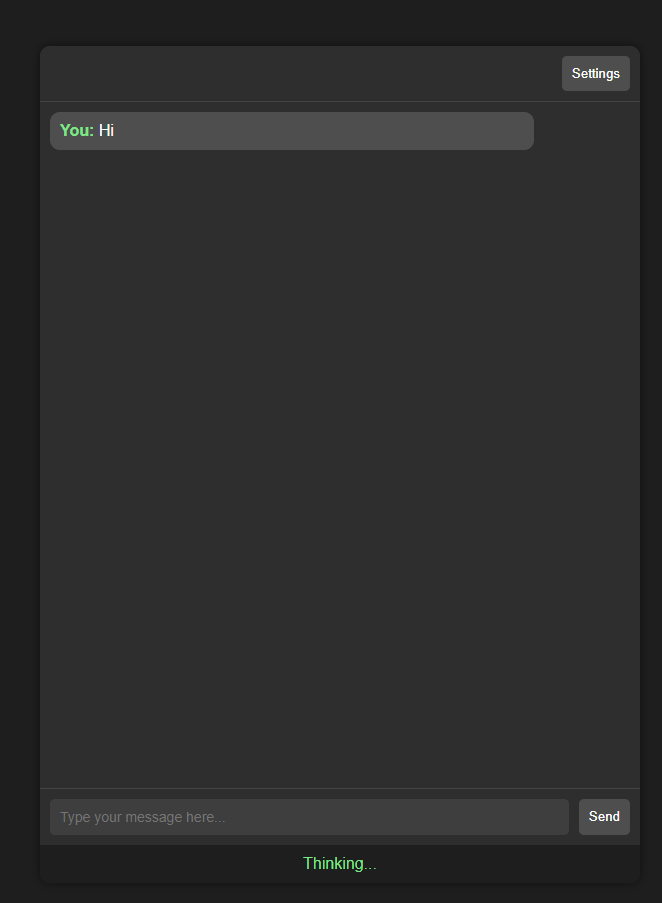
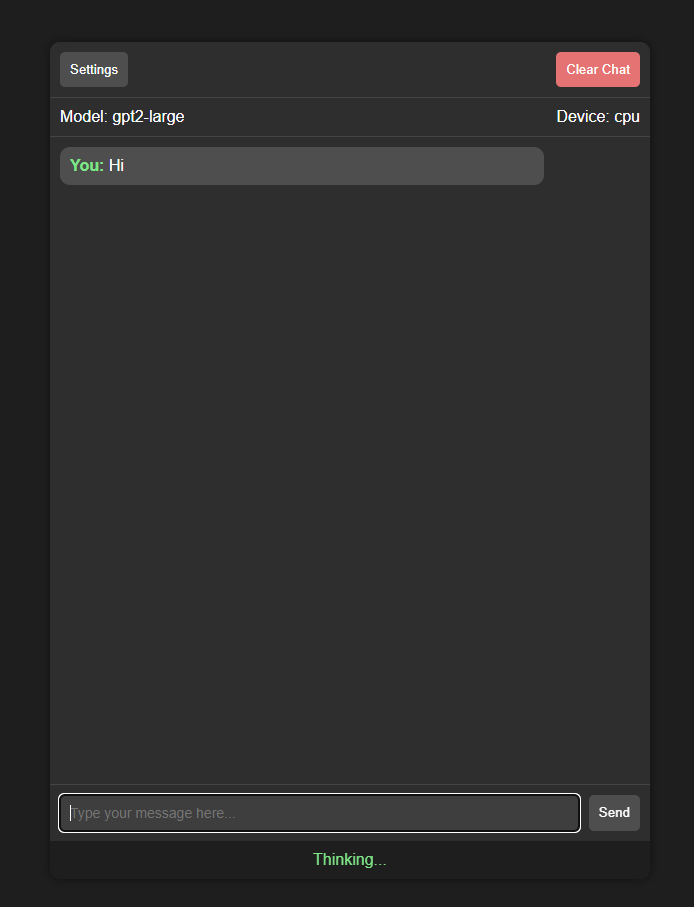
Changelogs for v1.1.0
Enhancements:

Added a section to display the currently selected model and device above the chat.
Implemented functionality to persist selected model and device settings across page reloads using local storage.
Added a "Clear Chat" button to allow users to quickly clear the chat history.
Bug Fixes:

Fixed minor styling adjustments for better visual consistency

Changed region(s): [[0.0604, 0.031, 0.9668, 0.2171], [0.0604, 0.8682, 0.9668, 0.9612]]

diff --git a/launcher/static/js/scripts.js b/launcher/static/js/scripts.js
@@ -1,4 +1,17 @@
 $(document).ready(function() {
+    // Load saved settings from local storage
+    const savedModel = localStorage.getItem('selectedModel');
+    const savedDevice = localStorage.getItem('selectedDevice');
+
+    if (savedModel) {
+        $('#model-selector').val(savedModel);
+        $('#selected-model').text(savedModel);
+    }
+    if (savedDevice) {
+        $('#device-selector').val(savedDevice);
+        $('#selected-device').text(savedDevice);
+    }
+
     // Load available devices
     $.get('/devices', function(data) {
         let deviceSelector = $('#device-selector');
@@ -21,6 +34,13 @@ $(document).ready(function() {
     $('#save-settings').click(function() {
         let modelName = $('#model-selector').val();
         let deviceId = $('#device-selector').val();
+
+        localStorage.setItem('selectedModel', modelName);
+        localStorage.setItem('selectedDevice', deviceId);
+
+        $('#selected-model').text(modelName);
+        $('#selected-device').text(deviceId);
+
         $.ajax({
             url: '/update_model',
             type: 'POST',
@@ -75,6 +95,11 @@ $(document).ready(function() {
                 }
             });
         }
+    });
+
+    // Clear chat history
+    $('#clear-chat').click(function() {
+        $('#chat-display').empty();
     });
 
     // Send message on enter key press

diff --git a/launcher/static/css/styles.css b/launcher/static/css/styles.css
@@ -24,7 +24,8 @@ body {
 .header {
     background-color: #2e2e2e;
     padding: 10px;
-    text-align: right;
+    display: flex;
+    justify-content: space-between;
 }
 
 .header button {
@@ -38,6 +39,16 @@ body {
 
 .header button:hover {
     background-color: #5e5e5e;
+}
+
+.info {
+    background-color: #2e2e2e;
+    padding: 10px;
+    color: #ffffff;
+    border-top: 1px solid #444;
+    display: flex;
+    justify-content: space-between;
+    align-items: center;
 }
 
 .chat {
@@ -88,6 +99,14 @@ body {
 
 #send-button:active {
     background-color: #3e3e3e;
+}
+
+#clear-chat {
+    background-color: #e57373;
+}
+
+#clear-chat:hover {
+    background-color: #f44336;
 }
 
 .loading-indicator {

diff --git a/launcher/templates/index.html b/launcher/templates/index.html
@@ -11,6 +11,11 @@
     <div class="container">
         <div class="header">
             <button id="open-settings">Settings</button>
+            <button id="clear-chat">Clear Chat</button>
+        </div>
+        <div class="info">
+            <div>Model: <span id="selected-model">Not Selected</span></div>
+            <div>Device: <span id="selected-device">Not Selected</span></div>
         </div>
         <div class="chat">
             <div id="chat-display" class="chat-display"></div>

diff --git a/README.md b/README.md
@@ -41,37 +41,16 @@ LcNLP Launcher provides a web user-friendly interface for setting up and running
 
 ## Changelogs
 
-## v1.0.0
+## v1.1.0
 
-## Web User Interface:
+## Enhancements:
 
-- Developed an intuitive web-based interface for easy interaction and configuration of NLP models.
-## Model Management:
+- Added a section to display the currently selected model and device above the chat.
+- Implemented functionality to persist selected model and device settings across page reloads using local storage.
+- Added a "Clear Chat" button to allow users to quickly clear the chat history.
+## Bug Fixes:
 
-- Support for multiple NLP models including gpt2, gpt2-medium, gpt2-large, gpt2-xl, EleutherAI/gpt-neo series, and distilgpt2.
-## Device Selection:
-
-- Ability to choose between available devices (CPU or CUDA) for model inference.
-## Parameter Configuration:
-
-- Added configurable parameters for model generation:
-- Temperature: Control the creativity of the generated text.
-- Top-k: Limit the number of highest probability options for the next word.
-- Top-p (nucleus sampling): Limit the selection of words by cumulative probability.
-- Repetition Penalty: Penalize repeated words to reduce redundancy.
-- Max Length: Specify the maximum number of tokens in the generated text.
-## Real-time Logs and Outputs:
-
-- View real-time logs and outputs from the models directly within the interface.
-## Chat Interface:
-
-- Interactive chat interface for sending prompts and receiving responses from the model.
-## Settings Modal:
-
-- Integrated settings modal to easily adjust configuration parameters.
-## Loading Indicator:
-
-- Visual indicator to show when the model is processing a prompt.
+- Fixed minor styling adjustments for better visual consistency
 
 ## System Requirements
 
